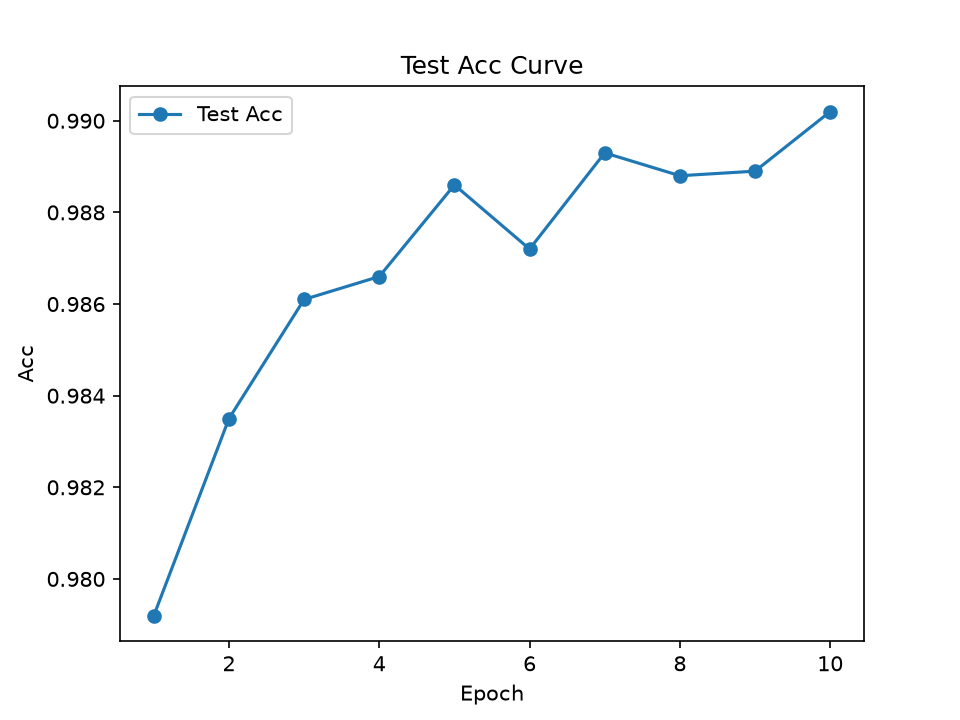
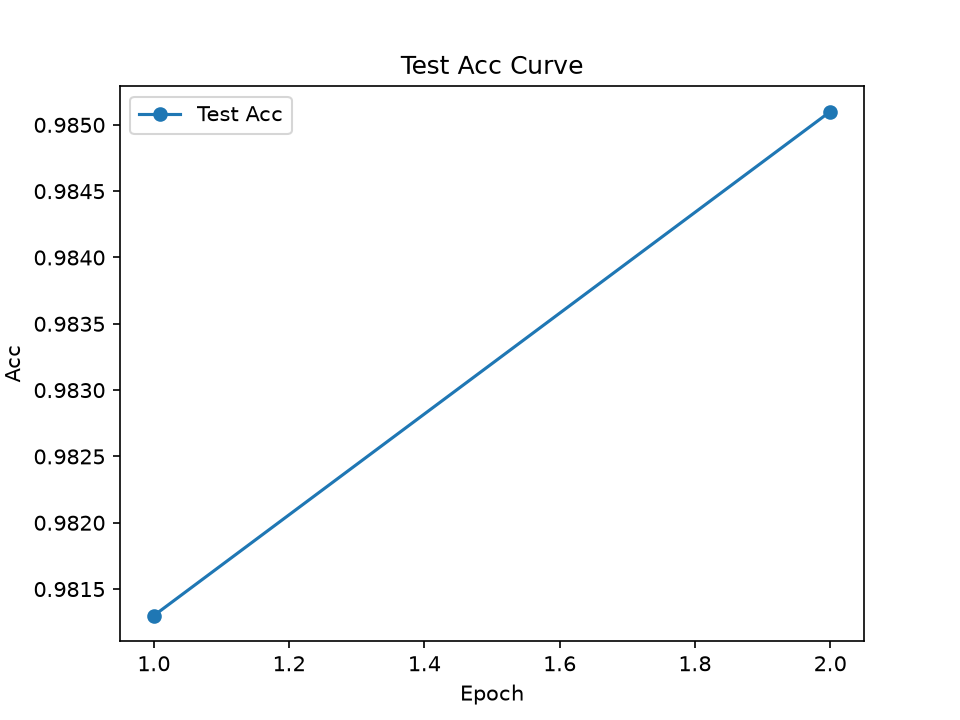
feat: add seed in cfg and use it

diff --git a/04_training_framework/train.py b/04_training_framework/train.py
@@ -1,9 +1,12 @@
+import torch
 import models.cnn as cnn
 import configs.default as cfg
 from datasets.mnist import get_loaders
 from utils.train import train_loop
 from utils.checkpoint import save_model
 from utils.plot import plot_img
+
+torch.manual_seed(cfg.seed)
 
 net = cnn.CNN().to(cfg.device)
 train_loader,test_loader = get_loaders(cfg.DATA_DIR, cfg.train_batch_size, cfg.test_batch_size)

diff --git a/04_training_framework/configs/default.py b/04_training_framework/configs/default.py
@@ -5,8 +5,9 @@ FRAMEWORK_DIR = BASE_DIR.parent
 REPO_DIR = FRAMEWORK_DIR.parent
 DATA_DIR = REPO_DIR / "data"
 
-num_epochs = 10
+num_epochs = 2
 lr = 1e-3
 train_batch_size = 64
 test_batch_size = 1000
+seed = 1000
 device = "mps"
